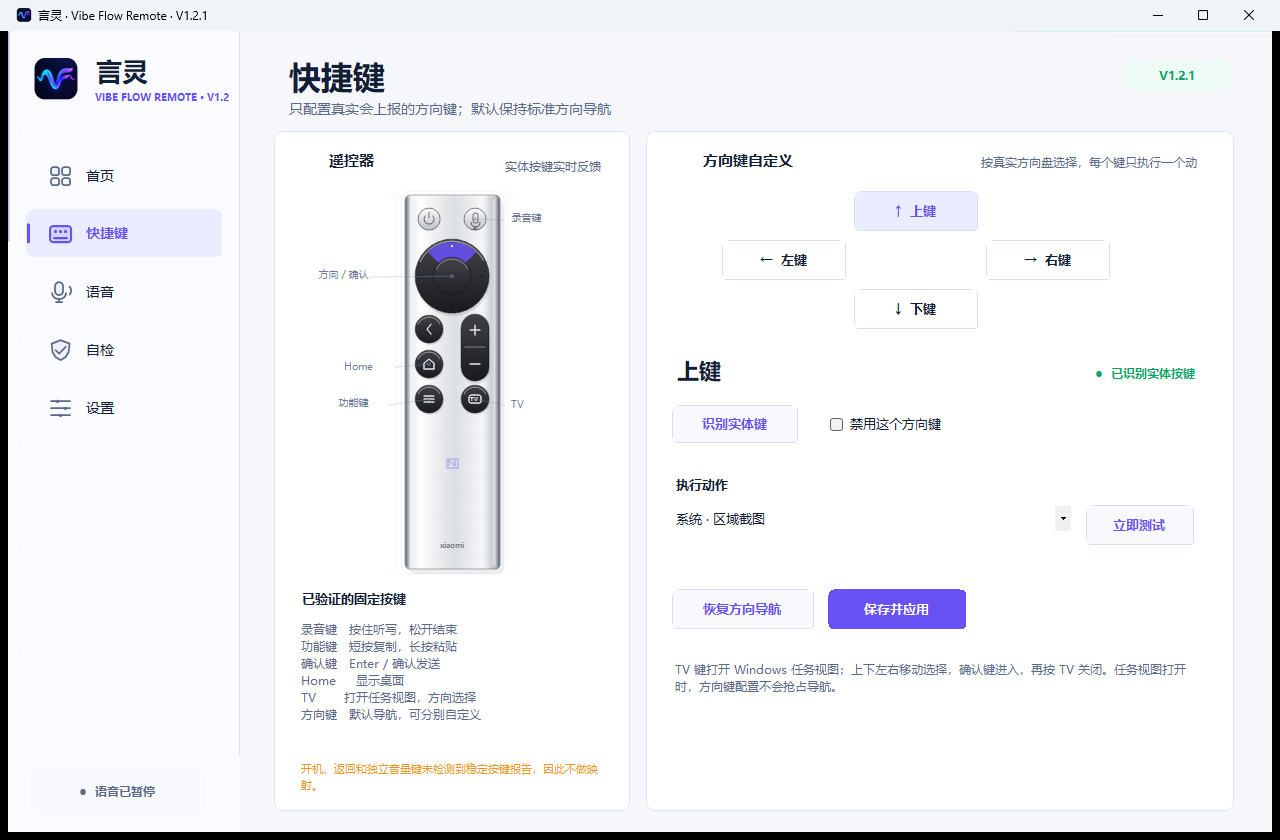
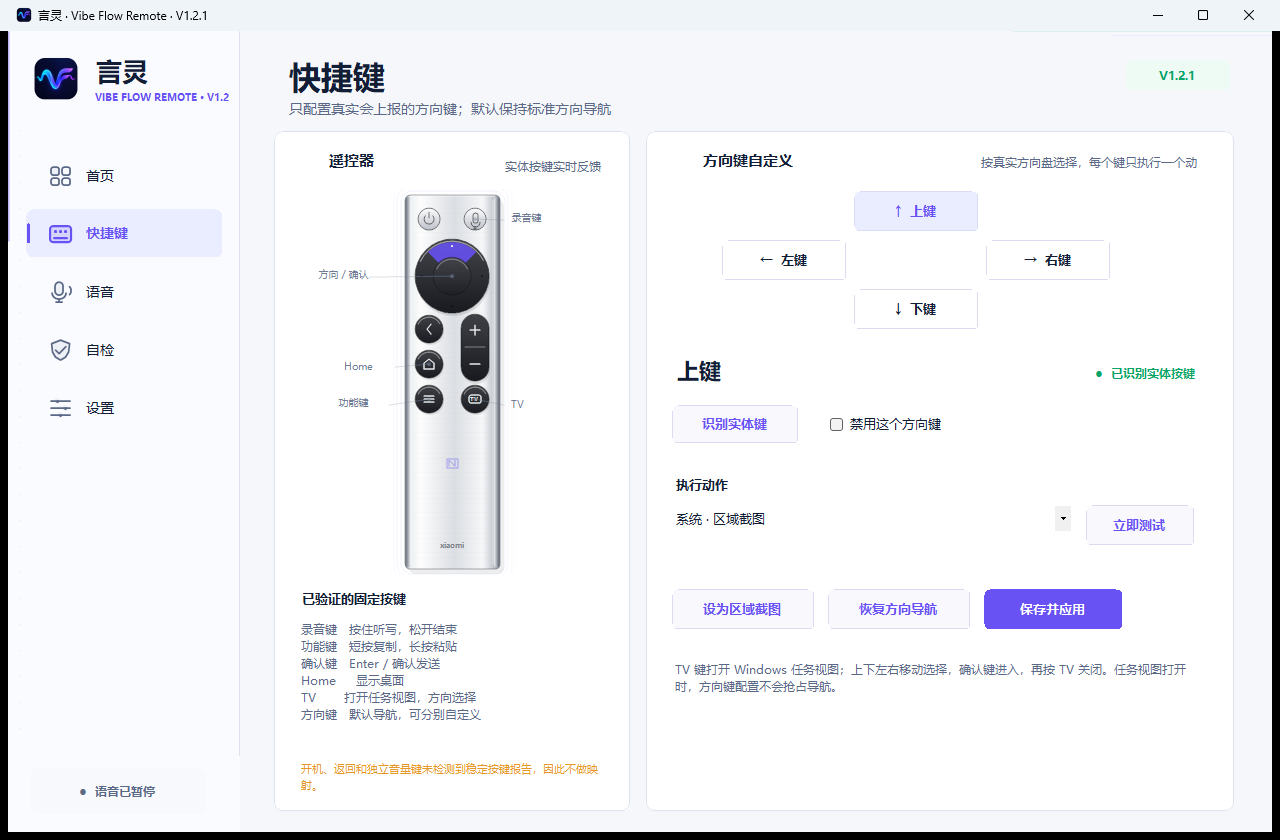
Polish Vibe Flow v1.2.1 usability

Changed region(s): [[0.5312, 0.681, 0.875, 0.7738]]

diff --git a/scripts/validate.js b/scripts/validate.js
@@ -227,7 +227,7 @@ assert(includesAll(mappingsPage, [
   'string[] keys = { "上键", "下键", "左键", "右键" }',
   'string[] selectorLabels = { "↑  上键", "↓  下键", "←  左键", "→  右键" }',
   "Point[] selectorLocations", '"识别实体键"', '"禁用这个方向键"',
-  '"立即测试"', '"恢复方向导航"', '"保存并应用"',
+  '"立即测试"', '"设为区域截图"', '"恢复方向导航"', '"保存并应用"',
   '"开机、返回和独立音量键未检测到稳定按键报告，因此不做映射。"',
 ]), "The active shortcut page is not the four-direction graphical workflow");
 assert(includesAll(app, [
@@ -270,6 +270,10 @@ for (const id of ["components", "bluetooth", "remote", "keys", "microphone", "ca
   assert(selfCheck.includes(`new SelfCheckItem("${id}"`), `Self-check is missing ${id}`);
 }
 assert(includesAll(app, [
+  'IsStableCaptureRuntime(runtime)', 'recording_kernel=v1.0.3', 'voice_state_machine=v11',
+  'IsStableCaptureRuntime("long_dictation_state_machine=v3")',
+]), "Self-check still requires the removed long-dictation runtime marker");
+assert(includesAll(app, [
   "new Mutex(true", '"--background"', "SystemEvents.PowerModeChanged", "SystemEvents.SessionSwitch",
   "RecoverServicesAfterSystemChange", "RotateLogFile", "ExportDiagnostics", "BuildProblemSummary",
 ]), "Single-instance startup, resume recovery, bounded logs, or diagnostics are incomplete");
@@ -284,6 +288,8 @@ assert(includesAll(app, [
   'string[] navText = { "首页", "快捷键", "语音", "自检", "设置" }',
   'string preference = config == null ? "light"', 'preference == "dark"',
   "pageBackground = Color.FromArgb(25, 26, 31)", "cardBackground = Color.FromArgb(35, 37, 44)",
+  'SecondaryButton("白天模式"', 'SecondaryButton("夜间模式"',
+  'ApplyThemePreference("light")', 'ApplyThemePreference("dark")', "RebuildShellForTheme",
   "RemoteVisual", "DrawRecordingRipples",
 ]), "Navigation, default light theme, restrained dark theme, or recording feedback is incomplete");
 assert(includesAll(screenshotScript, [

diff --git a/scripts/VibeMic.cs b/scripts/VibeMic.cs
@@ -431,6 +431,56 @@ internal sealed class VibeMicForm : Form
         }
     }
 
+    private void ApplyThemePreference(string preference)
+    {
+        string selected = preference == "dark" ? "dark" : "light";
+        if (string.Equals(config.theme, selected, StringComparison.OrdinalIgnoreCase))
+        {
+            ShowToast(selected == "dark" ? "当前已是夜间模式" : "当前已是白天模式", "info");
+            return;
+        }
+
+        config.theme = selected;
+        SaveConfig();
+        ApplyThemePalette();
+        RebuildShellForTheme();
+        ShowToast(selected == "dark" ? "已切换到夜间模式" : "已切换到白天模式", "success");
+    }
+
+    private void RebuildShellForTheme()
+    {
+        int page = currentPageIndex;
+        SuspendLayout();
+        if (toastTimer != null)
+        {
+            toastTimer.Stop();
+            toastTimer.Dispose();
+            toastTimer = null;
+        }
+        if (connectionBadge.Parent != null) connectionBadge.Parent.Controls.Remove(connectionBadge);
+
+        var existing = new Control[Controls.Count];
+        Controls.CopyTo(existing, 0);
+        foreach (Control control in existing)
+            if (!ReferenceEquals(control, content)) control.Dispose();
+
+        Controls.Clear();
+        content.Controls.Clear();
+        navButtons.Clear();
+        BackColor = pageBackground;
+        BuildShell();
+        ShowPage(page);
+        ResumeLayout(true);
+        Invalidate(true);
+    }
+
+    private static bool IsStableCaptureRuntime(string runtime)
+    {
+        if (string.IsNullOrWhiteSpace(runtime)) return true;
+        return runtime.IndexOf("recording_kernel=v1.0.3", StringComparison.OrdinalIgnoreCase) >= 0 &&
+            runtime.IndexOf("voice_state_machine=v11", StringComparison.OrdinalIgnoreCase) >= 0;
+    }
+
     private static int RunHostSelfTests()
     {
         try
@@ -454,6 +504,9 @@ internal sealed class VibeMicForm : Form
                 FindShortcutChoice(directionChoices, "win+shift+s") <= 0 ||
                 CustomActionText("win+shift+s") != "区域截图")
                 throw new InvalidOperationException("Direction screenshot action invariant failed");
+            if (!IsStableCaptureRuntime("recording_kernel=v1.0.3 voice_state_machine=v11") ||
+                IsStableCaptureRuntime("long_dictation_state_machine=v3"))
+                throw new InvalidOperationException("Stable capture runtime detection invariant failed");
 
             VibeMicConfig continuous = VibeMicConfig.Default();
             continuous.schemaVersion = 24;
@@ -633,6 +686,7 @@ internal sealed class VibeMicForm : Form
         content.BackColor = pageBackground;
         content.AutoScroll = true;
         content.AutoScrollMinSize = new Size(1000, 744);
+        content.Paint -= PaintWorkspaceTexture;
         content.Paint += PaintWorkspaceTexture;
         Controls.Add(content);
         Controls.Add(sidebar);
@@ -1354,7 +1408,17 @@ internal sealed class VibeMicForm : Form
                 ShowToast(disabledToggle.Checked ? labels[selectedIndex] + "已禁用" : labels[selectedIndex] + "已恢复方向导航", "success");
             };
 
-            var reset = SecondaryButton("恢复方向导航", new Point(2, 238), new Size(142, 40));
+            var screenshot = SecondaryButton("设为区域截图", new Point(2, 238), new Size(142, 40));
+            screenshot.Click += delegate
+            {
+                SetMapping(selectedKey, "win+shift+s");
+                config.mappingPreset = "custom";
+                SaveConfig();
+                StartKeyboardBridge();
+                renderConfiguration();
+                ShowToast(labels[selectedIndex] + "已设为区域截图", "success");
+            };
+            var reset = SecondaryButton("恢复方向导航", new Point(158, 238), new Size(142, 40));
             reset.Click += delegate
             {
                 SetMapping(selectedKey, defaultAction);
@@ -1362,7 +1426,7 @@ internal sealed class VibeMicForm : Form
                 renderConfiguration();
                 ShowToast(labels[selectedIndex] + "已恢复方向导航", "success");
             };
-            var save = PrimaryButton("保存并应用", new Point(158, 238), new Size(138, 40));
+            var save = PrimaryButton("保存并应用", new Point(314, 238), new Size(138, 40));
             save.Click += delegate
             {
                 SaveConfig();
@@ -1376,6 +1440,7 @@ internal sealed class VibeMicForm : Form
             configuration.Controls.Add(actionLabel);
             configuration.Controls.Add(actionBox);
             configuration.Controls.Add(actionTest);
+            configuration.Controls.Add(screenshot);
             configuration.Controls.Add(reset);
             configuration.Controls.Add(save);
             configuration.Controls.Add(note);
@@ -1799,15 +1864,15 @@ internal sealed class VibeMicForm : Form
         var themeLabel = NewLabel("界面主题", 9.5f, FontStyle.Bold, ink);
         themeLabel.Location = new Point(32, 218);
         themeLabel.Size = new Size(120, 30);
-        var theme = StyledCombo(new Point(176, 212), new Size(220, 38));
-        theme.Items.AddRange(new object[] { "跟随 Windows", "白天（默认）", "夜间" });
-        theme.SelectedIndex = config.theme == "light" ? 1 : config.theme == "dark" ? 2 : 0;
-        theme.SelectedIndexChanged += delegate
-        {
-            config.theme = theme.SelectedIndex == 1 ? "light" : theme.SelectedIndex == 2 ? "dark" : "system";
-            SaveConfig();
-            ShowToast("主题已保存，下次打开言灵时完整应用", "success");
-        };
+        var lightTheme = SecondaryButton("白天模式", new Point(176, 212), new Size(106, 38));
+        var darkThemeButton = SecondaryButton("夜间模式", new Point(290, 212), new Size(106, 38));
+        bool lightSelected = config.theme != "dark";
+        lightTheme.BackColor = lightSelected ? violet : surfaceBackground;
+        lightTheme.ForeColor = lightSelected ? Color.White : ink;
+        darkThemeButton.BackColor = lightSelected ? surfaceBackground : violet;
+        darkThemeButton.ForeColor = lightSelected ? ink : Color.White;
+        lightTheme.Click += delegate { ApplyThemePreference("light"); };
+        darkThemeButton.Click += delegate { ApplyThemePreference("dark"); };
         var startupBand = new Panel();
         startupBand.Location = new Point(30, 282);
         startupBand.Size = new Size(520, 58);
@@ -1822,7 +1887,8 @@ internal sealed class VibeMicForm : Form
         startupCard.Controls.Add(traySetting);
         startupCard.Controls.Add(startup);
         startupCard.Controls.Add(themeLabel);
-        startupCard.Controls.Add(theme);
+        startupCard.Controls.Add(lightTheme);
+        startupCard.Controls.Add(darkThemeButton);
         startupCard.Controls.Add(startupBand);
 
         var feedbackCard = NewCard(new Point(630, 100), new Size(364, 360));
@@ -5105,7 +5171,7 @@ internal sealed class VibeMicForm : Form
         result.AppendLine("版本：" + ProductRelease + "  ·  时间：" + DateTime.Now.ToString("yyyy-MM-dd HH:mm:ss"));
         result.AppendLine("系统：" + Environment.OSVersion.VersionString);
         result.AppendLine("转写工具：" + ProviderDisplayName(config.inputMethod) + "  ·  快捷键：" + config.inputMethodHotkey + "  ·  " + (config.inputMethodTrigger == "hold" ? "按住触发" : "单击切换"));
-        result.AppendLine("遥控器录音：按住说话 · 松开结束 · 单逻辑会话内自动续接物理音频分段");
+        result.AppendLine("遥控器录音：按住说话 · 松开结束 · 稳定单会话模式");
         result.AppendLine("语音桥接：" + (IsCapturing ? "运行中" : "已暂停") + "  ·  遥控器语音：" + (bridgeReady ? "已就绪" : "未就绪"));
         result.AppendLine("VB-CABLE：Input " + (HasCableInput() ? "已检测" : "未检测") + " / Output " + (HasCableOutput() ? "已检测" : "未检测"));
         result.AppendLine("稳定语音档案：" + (HasStableVoiceProfile(config) ? "v" + StableVoiceProfileVersion + " 已应用" : "参数已自定义"));
@@ -5244,9 +5310,7 @@ internal sealed class VibeMicForm : Form
 
         string componentError;
         bool versionsReady = AreCoreComponentsCurrent(out componentError);
-        bool runtimeReady = !IsCapturing || string.IsNullOrWhiteSpace(runtime) ||
-            (runtime.IndexOf("voice_state_machine=v11", StringComparison.OrdinalIgnoreCase) >= 0 &&
-             runtime.IndexOf("long_dictation_state_machine=v3", StringComparison.OrdinalIgnoreCase) >= 0);
+        bool runtimeReady = !IsCapturing || IsStableCaptureRuntime(runtime);
         bool filesReady = File.Exists(Path.Combine(root, "VibeMicAtvvCapture.exe")) &&
             File.Exists(Path.Combine(root, "VoxDeckInputBridge.exe")) &&
             File.Exists(Path.Combine(root, "NAudio.Core.dll")) && File.Exists(Path.Combine(root, "NAudio.Wasapi.dll"));
@@ -5254,7 +5318,7 @@ internal sealed class VibeMicForm : Form
         report.Items.Add(new SelfCheckItem("components", "本地核心组件与单实例状态",
             componentsReady ? "pass" : "fail",
             "主程序、语音捕获、按键桥接和 WASAPI 运行库版本一致，且只运行一个捕获会话",
-            componentsReady ? "组件完整，P0 按住说话状态机 v11/v3 已就绪" :
+            componentsReady ? "组件完整，稳定录音内核 v1.0.3 / 状态机 v11 已就绪" :
                 !filesReady ? "安装目录缺少必要组件" : !versionsReady ? componentError : "运行中的捕获组件不是当前状态机",
             componentsReady ? "未发现组件缺失或版本争用" : "文件缺失、版本混用或旧进程仍在运行",
             componentsReady ? "无需操作" : "重新安装完整发布包，然后重新自检",

diff --git a/docs/VERSION_ARCHIVE_ZH.md b/docs/VERSION_ARCHIVE_ZH.md
@@ -8,7 +8,7 @@
 
 | 版本 | 日期 | 定位与亮点 | 安装版 EXE | 免安装版 | 校验 |
 | --- | --- | --- | --- | --- | --- |
-| **v1.2.1** | 2026-08-28 | **用户友好稳定版**。恢复 `v1.0.3` 录音内核；按住说话、松开结束、单段约 60 秒；新增四方向“区域截图”；TV 持久任务视图；删除长录音和未验证按钮。 | [下载 EXE](https://github.com/richlearntodo-debug/vibe-flow/releases/download/v1.2.1/VibeFlow-Setup.exe) | [下载 ZIP](https://github.com/richlearntodo-debug/vibe-flow/releases/download/v1.2.1/Vibe-Flow-Windows-x64.zip) | [SHA-256](https://github.com/richlearntodo-debug/vibe-flow/releases/download/v1.2.1/SHA256SUMS.txt) |
+| **v1.2.1** | 2026-08-28 | **用户友好稳定版**。恢复 `v1.0.3` 录音内核；按住说话、松开结束、单段约 60 秒；方向键可一键配置区域截图；白天/夜间按钮即时切换；修复自检对已移除长录音组件的误报；TV 使用持久任务视图。 | [下载 EXE](https://github.com/richlearntodo-debug/vibe-flow/releases/download/v1.2.1/VibeFlow-Setup.exe) | [下载 ZIP](https://github.com/richlearntodo-debug/vibe-flow/releases/download/v1.2.1/Vibe-Flow-Windows-x64.zip) | [SHA-256](https://github.com/richlearntodo-debug/vibe-flow/releases/download/v1.2.1/SHA256SUMS.txt) |
 | v1.2.0 | 2026-08-26 | 长录音实验版。包含单击开始/结束、物理流续接和更多实验按键；保留用于复现，不建议日常使用。 | [下载 EXE](https://github.com/richlearntodo-debug/vibe-flow/releases/download/v1.2.0/VibeFlow-Setup.exe) | [下载 ZIP](https://github.com/richlearntodo-debug/vibe-flow/releases/download/v1.2.0/Vibe-Flow-Windows-x64.zip) | [SHA-256](https://github.com/richlearntodo-debug/vibe-flow/releases/download/v1.2.0/SHA256SUMS.txt) |
 | v1.1.0 | 2026-08-25 | 按住说话版；加入微信 AI 整理、结束反馈、五步向导和更多快捷键。 | [下载 EXE](https://github.com/richlearntodo-debug/vibe-flow/releases/download/v1.1.0/VibeFlow-Setup.exe) | [下载 ZIP](https://github.com/richlearntodo-debug/vibe-flow/releases/download/v1.1.0/Vibe-Flow-Windows-x64.zip) | [SHA-256](https://github.com/richlearntodo-debug/vibe-flow/releases/download/v1.1.0/SHA256SUMS.txt) |
 | v1.0.3 | 2026-08-24 | 首版稳定录音参考；加强开机恢复、蓝牙连接、自检日志和首页遥控器。 | [下载 EXE](https://github.com/richlearntodo-debug/vibe-flow/releases/download/v1.0.3/VibeFlow-Setup.exe) | [下载 ZIP](https://github.com/richlearntodo-debug/vibe-flow/releases/download/v1.0.3/Vibe-Flow-Windows-x64.zip) | [SHA-256](https://github.com/richlearntodo-debug/vibe-flow/releases/download/v1.0.3/SHA256SUMS.txt) |

diff --git a/docs/RELEASE_NOTES_ZH.md b/docs/RELEASE_NOTES_ZH.md
@@ -29,7 +29,7 @@
 
 ### 2. 四个方向键成为自定义入口
 
-上、下、左、右分别支持一个动作。下拉列表只保留已验证的标准键盘动作，可立即测试、禁用或恢复原方向。本版新增“系统 · 区域截图”，发送 Windows 原生 `Win + Shift + S`。开机、返回和独立音量键不再生成映射。
+上、下、左、右分别支持一个动作。下拉列表只保留已验证的标准键盘动作，可立即测试、禁用或恢复原方向。本版新增“系统 · 区域截图”和显眼的“设为区域截图”按钮，发送 Windows 原生 `Win + Shift + S`。开机、返回和独立音量键不再生成映射。
 
 ![区域截图配置](images/03-shortcuts-screenshot.png)
 
@@ -46,9 +46,14 @@ TV 现在发送 `Win + Tab`，进入 Windows 任务视图后保持显示：
 
 - 默认白天模式沿用 v1.2 之前的白色基调。
 - 夜间模式使用中性深灰和低饱和状态色，降低紫色与高亮刺激。
+- 设置页使用“白天模式 / 夜间模式”两个按钮，点击后立即重绘并保存，不需要重启。
 - 两种主题都保留真实按键高亮和录音波纹；没有真实音频时波形不动。
 
-### 5. 教程与发布门禁
+### 5. 自检误报修复
+
+自检曾继续要求已经从稳定版删除的长录音状态机标记，导致实际语音链路正常时仍显示核心组件错误。现在只核对当前发布版真实存在的 `recording_kernel=v1.0.3` 和 `voice_state_machine=v11`，等待按键或真实听写的项目继续显示为“检测中/建议”，不会伪装成通过。
+
+### 6. 教程与发布门禁
 
 - 第 9 步改为配置四个方向键。
 - 教程明确目标文本框必须真正获得焦点。

diff --git a/README_VIBE_MIC.md b/README_VIBE_MIC.md
@@ -24,7 +24,7 @@ The capture binary uses the exact `v1.0.3` recording kernel with only V1.2.1 hea
 | --- | --- |
 | Record | Hold to capture; release to finish |
 | Function | Short Copy; long Paste |
-| Direction pad | Native arrows by default; one verified action per direction, including `Win+Shift+S` capture |
+| Direction pad | Native arrows by default; one verified action per direction, with a one-click `Win+Shift+S` capture option |
 | Center | Enter |
 | Home | Show Desktop |
 | TV | Open persistent Windows Task View; arrows navigate; Enter confirms |
@@ -42,7 +42,7 @@ Power, Back, and independent Volume controls are intentionally not mapped becaus
 
 ## First run
 
-The application provides an eleven-step setup for Bluetooth, pairing, key verification, microphone service, VB-CABLE, provider selection, real dictation, four direction mappings, startup consent, and a final summary. A ten-item self-check provides direct repair links and privacy-safe diagnostics.
+The application provides an eleven-step setup for Bluetooth, pairing, key verification, microphone service, VB-CABLE, provider selection, real dictation, four direction mappings, startup consent, and a final summary. A ten-item self-check provides direct repair links and privacy-safe diagnostics, and validates the actual stable v1.0.3/v11 runtime without requiring removed long-dictation markers. Light and Dark buttons switch the complete interface immediately.
 
 See [QUICK_START_ZH.md](QUICK_START_ZH.md), the [V1.2.1 illustrated tutorial](docs/V1_2_1_TUTORIAL_ZH.md), and the [immutable version download archive](docs/VERSION_ARCHIVE_ZH.md).
 

diff --git a/README.md b/README.md
@@ -34,10 +34,10 @@
 | **回到首个正式版录音内核** | 捕获组件使用已验证的 `v1.0.3` 实现；微信输入法保持 `Ctrl + Win`、切换触发和 `80 ms`。 |
 | **可靠按住/松开** | RC003 自然 ATVV 流负责开始和结束；已移除长录音续接、`MIC_EXTEND` 和强制松开关闭逻辑。 |
 | **直接写入输入框** | 先聚焦目标输入框，语音工具直接写入；言灵不读取文字，也不做剪贴板或粘贴回填。 |
-| **四方向键自定义** | 上、下、左、右可分别选择一个已验证动作，新增 Windows 区域截图 `Win + Shift + S`。 |
+| **四方向键自定义** | 上、下、左、右可分别选择一个已验证动作；可直接点击“设为区域截图”应用 `Win + Shift + S`。 |
 | **TV 持久任务视图** | TV 打开 `Win + Tab` 任务视图，上下左右选择，确认键进入，再按 TV 关闭。 |
-| **双主题** | 默认使用白色白天模式；夜间模式改为克制的中性色和低饱和状态色。 |
-| **真实状态与自检** | 没有真实音频就不显示假波形；10 项自检提供原因和修复入口。 |
+| **双主题即时切换** | 默认使用白色白天模式；设置页可用两个按钮即时切换白天或夜间，无需重启。 |
+| **真实状态与自检** | 没有真实音频就不显示假波形；10 项自检提供原因和修复入口，并已修复稳定录音内核被误判为异常的问题。 |
 
 开机、返回和独立音量键没有稳定的 Windows 按键报告，因此 v1.2.1 不映射、不配置，也不宣传这些功能。
 

diff --git a/CHANGELOG.md b/CHANGELOG.md
@@ -19,11 +19,17 @@
   direction mappings arranged as a physical direction pad.
 - Added Windows region capture (`Win+Shift+S`) as a tested optional action for
   any one of the four direction keys; defaults remain native directions.
+- Added a visible one-click region-capture action in the direction editor while
+  keeping the existing action list and native-direction reset.
 - Replaced held-Alt task switching with persistent Windows Task View: TV opens
   Win+Tab, all four directions navigate, Enter confirms, and TV or timeout
   cancels safely.
 - Made the white light theme the default and reduced saturation in the explicit
   dark palette.
+- Replaced the theme drop-down with immediate Light/Dark buttons and rebuilt the
+  active shell safely without restarting background capture or input services.
+- Fixed a self-check false failure that still required the removed long-dictation
+  runtime marker; diagnostics now validate the stable v1.0.3/v11 runtime.
 - Advanced configuration to schema 25, onboarding to version 8, bridge config
   to schema 4, and all component file versions to 1.2.1.0.
 - Rewrote validation and release documentation around the approximately

diff --git a/docs/GITHUB_RELEASE_BODY_ZH.md b/docs/GITHUB_RELEASE_BODY_ZH.md
@@ -18,9 +18,10 @@
 - 修复松开后才打开麦克风、结束后出现第二个麦克风的问题。
 - 删除长录音续接、`MIC_EXTEND` 和强制松开关闭逻辑。
 - 转译工具直接写入当前焦点文本框，不经过剪贴板回填。
-- 上下左右四个方向键可分别配置一个常用动作，新增 Windows 区域截图 `Win + Shift + S`。
+- 上下左右四个方向键可分别配置一个常用动作；新增“设为区域截图”快捷按钮，立即应用 `Win + Shift + S`。
 - TV 改为持久 Windows 任务视图：方向选择，确认进入。
-- 默认白色白天模式，新增更克制的夜间模式。
+- 默认白色白天模式；设置页可用“白天模式 / 夜间模式”按钮即时切换，无需重启。
+- 修复自检仍检查已移除长录音状态机的问题；当前按稳定录音内核 `v1.0.3 / v11` 判定组件状态。
 - 开机、返回和独立音量键不再显示为可配置功能。
 
 当前 RC003 稳定单段最长约 `60 秒`。提前松开立即结束，到达硬件边界后开始下一段。

diff --git a/VIBE_MIC_VERSION.md b/VIBE_MIC_VERSION.md
@@ -42,11 +42,17 @@ Release date: 2026-08-28
 - Record: hold to capture, release to finish.
 - Function: short copy, long paste.
 - Directions: native arrows by default; each can be assigned one verified keyboard action.
-- Screenshot: any one direction can invoke Windows `Win + Shift + S`.
+- Screenshot: any one direction can invoke Windows `Win + Shift + S`, including a one-click setup action.
 - Center: Enter.
 - Home: Win+D.
 - TV: Win+Tab Task View; arrows navigate and Enter confirms.
 - Power, Back, and independent Volume controls are intentionally unmapped.
+
+## UI and diagnostics contract
+
+- Light and Dark are explicit buttons and apply immediately without restarting capture or input services.
+- Core-component self-check validates `recording_kernel=v1.0.3` and `voice_state_machine=v11`.
+- Removed long-dictation markers are never required for a healthy result.
 
 ## Release gate
 

diff --git a/QUICK_START_ZH.md b/QUICK_START_ZH.md
@@ -60,7 +60,9 @@
 
 ![快捷键配置](docs/images/03-shortcuts.png)
 
-截图配置：选择一个方向，在“执行动作”中选择“系统 · 区域截图”，测试后保存。需要恢复时点击“恢复方向导航”。
+截图配置：选择一个方向，直接点击“设为区域截图”；也可在“执行动作”中选择“系统 · 区域截图”。测试后保存，需要恢复时点击“恢复方向导航”。
+
+主题切换：打开“设置”，点击“白天模式”或“夜间模式”即可立即切换，无需重启言灵。
 
 ## 出现问题
 
